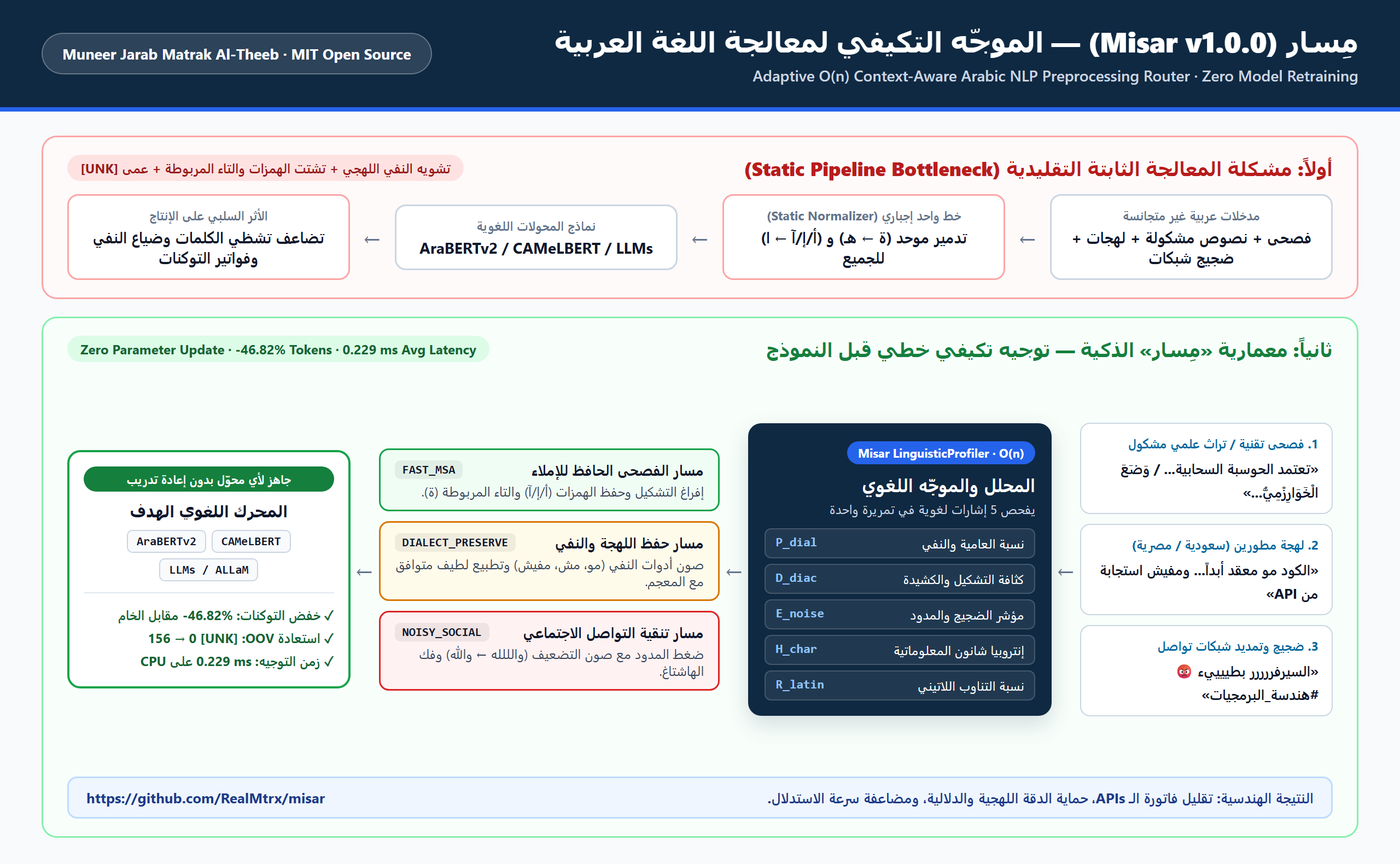
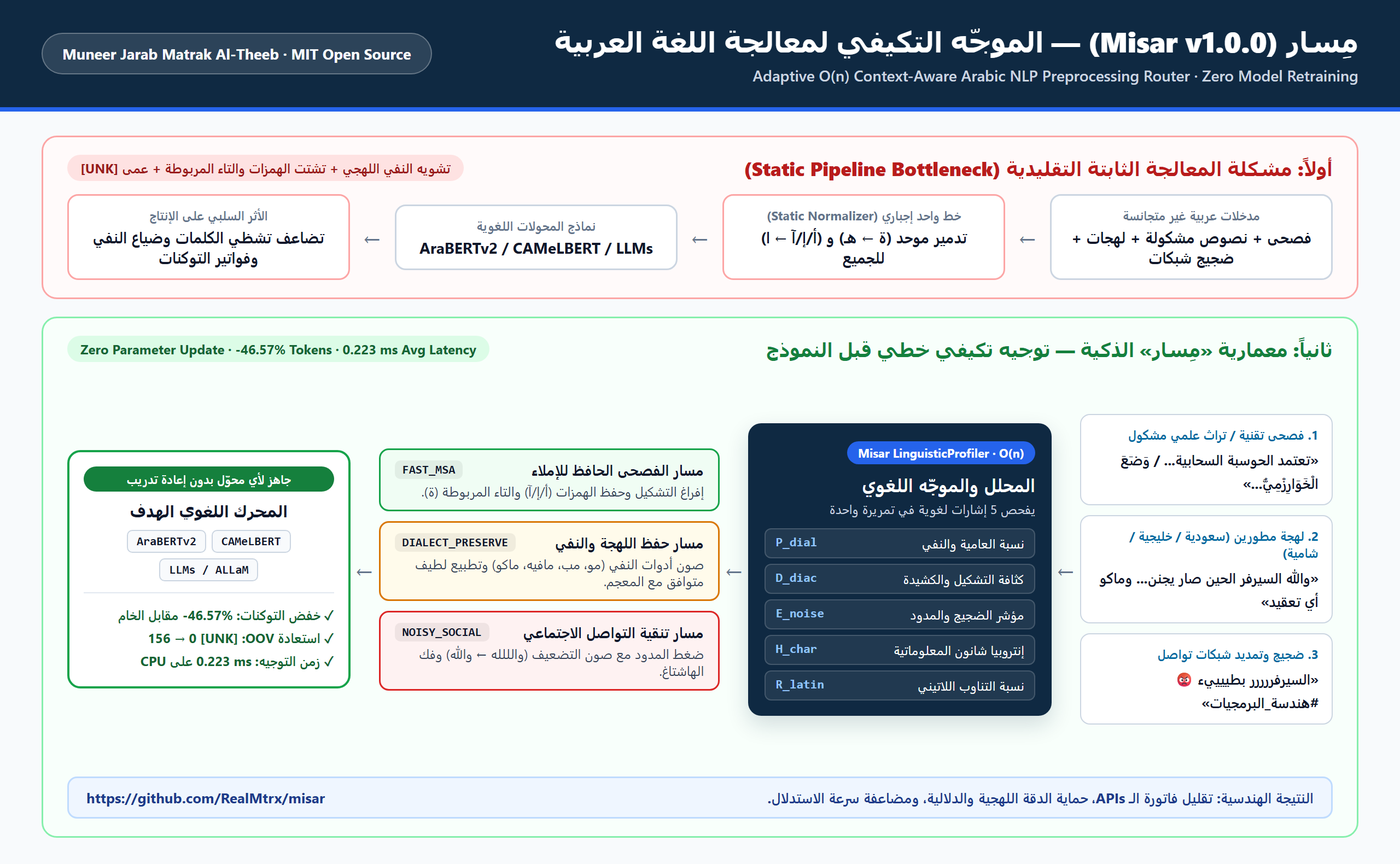
chore: use Saudi, Gulf, and Levantine tech examples instead of Egyptian

Changed region(s): [[0.7812, 0.4962, 0.9375, 0.8373], [0.2812, 0.6513, 0.4062, 0.6823], [0.4375, 0.6513, 0.5, 0.6823]]

diff --git a/src/misar/web/index.html b/src/misar/web/index.html
@@ -620,7 +620,7 @@
       <div class="presets-row" id="presetsRow"></div>
 
       <div class="input-wrap">
-        <textarea id="inputText" placeholder="اكتب هنا أي نص عربي (فصحى، لهجة سعودية/مصرية/شامية، أو تغريدة فيها مدود وإيموجي)..."></textarea>
+        <textarea id="inputText" placeholder="اكتب هنا أي نص عربي (فصحى، لهجة سعودية/خليجية/شامية، أو تغريدة فيها مدود وإيموجي)..."></textarea>
         <div class="actions-row">
           <div class="btn-group">
             <button type="button" class="btn-primary" id="analyzeBtn">تحليل وتوجيه النص</button>
@@ -653,7 +653,7 @@
             <span class="route-status" style="color: var(--dialect-accent);">✓ المسار النشط</span>
           </div>
           <h3>مسار التطبيع اللهجي الحافظ</h3>
-          <p>يصون أدوات النفي العامية («مو، مش، مب، مفيش») ويوحد التهجئة البسيطة مع حماية التضعيف الأصلي.</p>
+          <p>يصون أدوات النفي العامية («مو، مب، مافيه، ماكو») ويوحد التهجئة البسيطة مع حماية التضعيف الأصلي.</p>
         </div>
 
         <div class="route-card" data-route="NOISY_SOCIAL">
@@ -787,9 +787,9 @@
         text: "والله السيرفر الحين صار يجنن واستجابته في API سريعة شويتين بس الكاش يبيله تضبيط"
       },
       {
-        label: "مراجعة برمجية (لهجة مصرية)",
-        category: "لهجة مصرية تقنية (Egyptian Dev + Stack)",
-        text: "الكود مش معقد أبداً بس السيرفر كان محتاج شوية تظبيط في Backend وعلشان كدا أضفنا Cache"
+        label: "لهجة مطورين (خليجية / شامية)",
+        category: "لهجة خليجية وشامية تقنية (Gulf & Levantine Dev)",
+        text: "ياخي المكتبة هاذي كتير مرتبة وماكو أي تعقيد في Backend وشغالة تمام مع Cache"
       },
       {
         label: "فصحى تقنية (حفظ الإملاء)",
@@ -799,7 +799,7 @@
       {
         label: "تغريدة أعطال وضجيج تقني",
         category: "تغريدة تقنية هجينة (Noisy Dev Social + Dialect)",
-        text: "السيرفررررر بطييييء جداااااا ومفيش استجابة في API خالصصصصص 😡😡👎 #هندسة_البرمجيات"
+        text: "السيرفررررر بطييييء مررررة ومافيه استجابة في API أبدددداً 😡😡👎 #هندسة_البرمجيات"
       },
       {
         label: "نص تراثي مشكول (الخوارزمي)",

diff --git a/tests/test_misar.py b/tests/test_misar.py
@@ -46,10 +46,11 @@ class TestLinguisticProfiler(unittest.TestCase):
         self.assertLess(p.code_switching_ratio, 0.7)
 
     def test_protected_negation_flag(self):
-        p = self.profiler.analyze("الكود مو معقد أبداً والأداء مش بطيء")
+        p = self.profiler.analyze("الكود مو معقد أبداً والسيرفر مب بطيء وماكو أخطاء")
         self.assertTrue(p.has_protected_negation)
         self.assertIn("مو", p.detected_markers)
-        self.assertIn("مش", p.detected_markers)
+        self.assertIn("مب", p.detected_markers)
+        self.assertIn("ماكو", p.detected_markers)
 
 
 class TestMisarRoutingAndPipelines(unittest.TestCase):
@@ -95,22 +96,24 @@ class TestMisarRoutingAndPipelines(unittest.TestCase):
         self.assertIn("أبي", res.processed_text)
         self.assertTrue(res.profile.has_protected_negation)
 
-    def test_egyptian_dialect_normalization(self):
-        text = "المكتبة مش معقدة خالص وعلشان كدا عاوزين تحديث في API"
+    def test_gulf_and_levantine_dialect_normalization(self):
+        text = "المكتبة هاذي كتير مرتبة وشويتين زحمة بس ماكو تعقيد في API"
         res = self.router_offline.route(text)
         self.assertEqual(res.route_name, "DIALECT_PRESERVE")
-        self.assertIn("مش", res.processed_text)
-        self.assertIn("عشان", res.processed_text)
-        self.assertIn("كده", res.processed_text)
+        self.assertIn("هذه", res.processed_text)
+        self.assertIn("كثير", res.processed_text)
+        self.assertIn("شوية", res.processed_text)
+        self.assertIn("ماكو", res.processed_text)
 
     def test_hybrid_noisy_social_plus_dialect(self):
-        text = "السيرفررررر بطييييء جداااااا ومفيش استجابة علشان كدا 😡😡 #هندسة_البرمجيات https://example.com"
+        text = "السيرفررررر بطييييء مررررة ومافيه استجابة شويتين 😡😡 #هندسة_البرمجيات https://example.com"
         res = self.router_offline.route(text)
         self.assertEqual(res.route_name, "NOISY_SOCIAL")
         self.assertIn("السيرفر", res.processed_text)
         self.assertIn("بطيء", res.processed_text)
-        self.assertIn("مفيش", res.processed_text)
-        self.assertIn("عشان", res.processed_text)
+        self.assertIn("مرة", res.processed_text)
+        self.assertIn("مافيه", res.processed_text)
+        self.assertIn("شوية", res.processed_text)
         self.assertIn("هندسة البرمجيات", res.processed_text)
         self.assertNotIn("#", res.processed_text)
         self.assertNotIn("https://", res.processed_text)
@@ -204,7 +207,7 @@ class TestRealAraBERTv2WordPiece(unittest.TestCase):
     def test_real_arabert_vocab_reduces_noisy_and_diacritized_tokens(self):
         if not self.available:
             self.skipTest("AraBERTv2 vocab unavailable offline")
-        noisy = "السيرفررررر بطييييء جداااااا ومفيش استجابة في API خالصصصصص 😡😡👎 #هندسة_البرمجيات"
+        noisy = "السيرفررررر بطييييء مررررة ومافيه استجابة في API أبدددداً 😡😡👎 #هندسة_البرمجيات"
         res_noisy = self.router.route(noisy)
         self.assertLess(res_noisy.processed_token_count, res_noisy.raw_token_count)
         self.assertGreater(res_noisy.token_reduction_pct, 40.0)

diff --git a/src/misar/benchmark.py b/src/misar/benchmark.py
@@ -22,10 +22,10 @@ BENCHMARK_CORPUS: List[Dict[str, str]] = [
     {"domain": "Saudi Dev", "text": "والله السيرفر الحين صار يجنن واستجابته في API سريعة شويتين بس الكاش يبيله تضبيط"},
     {"domain": "Saudi Dev", "text": "المكتبة مو معقدة أبداً وما أبي أبدل البنية كلها الحين تكفى شوف التوثيق"},
     {"domain": "Saudi Dev", "text": "التشغيل على السيرفر مرره زبط وسرعة API زادت عشان كذا أنصح فيه"},
-    {"domain": "Egyptian Dev", "text": "الكود مش معقد أبداً بس السيرفر كان محتاج شوية تظبيط في Backend وعلشان كدا أضفنا Cache"},
-    {"domain": "Egyptian Dev", "text": "مفيش أي استجابة من Endpoint دلوقتي وعلشان كدا عاوزين تحديث سريع لحزمة SDK"},
+    {"domain": "Gulf Dev", "text": "ياخي المكتبة هاذي حقت المعالجة زينة بالحيل وابغى أربط Backend مع Cache دحين"},
+    {"domain": "Levantine Dev", "text": "هاد الكود كتير نظيف وماكو مشاكل في Endpoint وبدنا نحدث حزمة SDK بسرعة"},
     {"domain": "Levantine/Maghrebi", "text": "النظام كتير سلس وهيك نشر API شغال مزيان بزاف بدون مشاكل في الإنتاج"},
-    {"domain": "Noisy Tech Social", "text": "السيرفررررر بطييييء جداااااا ومفيش استجابة في API خالصصصصص 😡😡👎 #هندسة_البرمجيات"},
+    {"domain": "Noisy Tech Social", "text": "السيرفررررر بطييييء مررررة ومافيه استجابة في API أبدددداً 😡😡👎 #هندسة_البرمجيات"},
     {"domain": "Noisy Tech Social", "text": "الإصدارررر الجديييييد من النموذج سرييييع وممتاااااز 😍🔥🚀 #ذكاء_اصطناعي https://github.com/RealMtrx/misar"},
     {"domain": "Noisy Tech Social", "text": "والللله الكود مو معقد والأخطاء متكررررة في السيرفر!!!! 👎👎 @devops #تطوير_البرمجيات"},
 ]

diff --git a/src/misar/web/server.py b/src/misar/web/server.py
@@ -26,9 +26,9 @@ STANDARD_SAMPLES: List[Dict[str, str]] = [
         "input": "والله السيرفر الحين صار يجنن واستجابته في API سريعة شويتين بس الكاش يبيله تضبيط",
     },
     {
-        "label": "مراجعة برمجية (لهجة مصرية)",
-        "category": "لهجة مصرية تقنية (Egyptian Dev + Stack)",
-        "input": "الكود مش معقد أبداً بس السيرفر كان محتاج شوية تظبيط في Backend وعلشان كدا أضفنا Cache",
+        "label": "لهجة مطورين (خليجية / شامية)",
+        "category": "لهجة خليجية وشامية تقنية (Gulf & Levantine Dev)",
+        "input": "ياخي المكتبة هاذي كتير مرتبة وماكو أي تعقيد في Backend وشغالة تمام مع Cache",
     },
     {
         "label": "فصحى تقنية (حفظ الإملاء)",
@@ -38,7 +38,7 @@ STANDARD_SAMPLES: List[Dict[str, str]] = [
     {
         "label": "تغريدة أعطال وضجيج تقني",
         "category": "تغريدة تقنية هجينة (Noisy Dev Social + Dialect)",
-        "input": "السيرفررررر بطييييء جداااااا ومفيش استجابة في API خالصصصصص 😡😡👎 #هندسة_البرمجيات",
+        "input": "السيرفررررر بطييييء مررررة ومافيه استجابة في API أبدددداً 😡😡👎 #هندسة_البرمجيات",
     },
     {
         "label": "نص تراثي مشكول (الخوارزمي)",
@@ -242,7 +242,7 @@ def run_server(
                 assert r.status == 200 and "مِسار" in html
 
             req_data = json.dumps(
-                {"text": "السيرفررررر بطييييء جداااااا ومفيش استجابة في API 😡 #هندسة_البرمجيات"},
+                {"text": "السيرفررررر بطييييء مررررة ومافيه استجابة في API 😡 #هندسة_البرمجيات"},
                 ensure_ascii=False,
             ).encode("utf-8")
             req = urllib.request.Request(

diff --git a/README.md b/README.md
@@ -9,8 +9,8 @@
 [![Python 3.9+](https://img.shields.io/badge/python-3.9%2B-1e40af.svg)](https://www.python.org/downloads/)
 [![Dependencies](https://img.shields.io/badge/dependencies-zero%20mandatory-15803d.svg)](#installation)
 [![License: MIT](https://img.shields.io/badge/License-MIT-0f2942.svg)](LICENSE)
-[![Latency](https://img.shields.io/badge/CPU%20latency-0.23%20ms%2Ftext-0369a1.svg)](#empirical-benchmarks)
-[![Token Reduction](https://img.shields.io/badge/tokens%20saved--46.82%25-16a34a.svg)](#empirical-benchmarks)
+[![Latency](https://img.shields.io/badge/CPU%20latency-0.22%20ms%2Ftext-0369a1.svg)](#empirical-benchmarks)
+[![Token Reduction](https://img.shields.io/badge/tokens%20saved--46.57%25-16a34a.svg)](#empirical-benchmarks)
 
 [Architecture](#architecture) • [Benchmarks](#empirical-benchmarks) • [Installation](#installation) • [Quick Start](#quick-start) • [CLI & Workbench](#cli--web-workbench) • [Citation](#citation) • [النسخة العربية](#-نظرة-عامة-بالعربية)
 
@@ -27,7 +27,7 @@
 Modern Arabic NLP deployments face a structural bottleneck: forcing heterogeneous Arabic text (**Modern Standard Arabic**, **classical diacritized prose**, **Gulf/Egyptian/Levantine/Maghrebi dialects**, and **noisy social media**) through a single static preprocessing pipeline actively degrades both accuracy and inference economics:
 
 1. **Legacy Normalization Damages Modern Transformers:** Classical regex pipelines blindly collapse `ة → ه` and `أ/إ/آ → ا`. However, modern Transformer vocabularies such as **AraBERTv2** (`64k` WordPiece) and **CAMeLBERT** explicitly preserve Hamzas and Taa Marbuta—meaning legacy normalization shatters known whole words (e.g., `الحوسبة` as `1` token splits into `الحو` + `##سبه` as `2` tokens).
-2. **Dialectal Sentiment & Negation Erasure:** Over-aggressive cleaning distorts critical colloquial negation and sentiment markers (`مو`, `مش`, `مفيش`, `ماكو`), reversing downstream classification polarity.
+2. **Dialectal Sentiment & Negation Erasure:** Over-aggressive cleaning distorts critical colloquial negation and sentiment markers (`مو`, `مب`, `مافيه`, `ماكو`), reversing downstream classification polarity.
 3. **Diacritic, Tatweel & Elongation Token Explosion:** Unstripped harakat (`تشكيل`), kashida (`ـ`), and character stretches (`بطييييء`, `السيرفررررر`) trigger OOV `[UNK]` blindness or inflate subword token counts—multiplying Transformer $O(L^2)$ self-attention cost and API billing.
 
 **Misar (`مِسار`)** solves all three challenges **without retraining any model (`Zero Parameter Update`)** by acting as an ultra-lightweight, zero-dependency, linear-time $O(n)$ routing gateway directly in front of your Transformer or LLM pipeline.
@@ -44,7 +44,7 @@ flowchart LR
     B -->|"High Noise / Tatweel / Stretches ≥ 3"| C["NOISY_SOCIAL (+ Hybrid Dialect)<br/>Gemination-Safe Collapse + Tag Unpacking"]
     B -->|"Dialect Markers / Protected Negations"| D["DIALECT_PRESERVE<br/>Negation Protection + Vocab-Aligned Cleanup"]
     B -->|"Clean MSA / Classical Diacritized"| E["FAST_MSA<br/>Strip Harakat · Preserve أ/إ/آ, ة, ى"]
-    C --> F["AraBERTv2 / CAMeLBERT / ALLaM / LLMs<br/>(-46.82% Tokens · 0 [UNK])"]
+    C --> F["AraBERTv2 / CAMeLBERT / ALLaM / LLMs<br/>(-46.57% Tokens · 0 [UNK])"]
     D --> F
     E --> F
 ```
@@ -59,11 +59,11 @@ Measured reproducibly via `python benchmarks/run_benchmark.py` against the authe
 | :--- | :---: | :---: | :---: | :---: | :---: |
 | **MSA Engineering & Code-Switch** | 3 | 57 | 79 *(+38.6% fragmentation)* | **57** | Preserves `100%` orthography (`-27.85%` vs Legacy) |
 | **Classical Diacritized (Heritage)** | 3 | 186 *(147 OOV `[UNK]`)* | 48 | **39** | **`-79.03%`** tokens & **`100%`** word recovery (`0 [UNK]`) |
-| **Gulf / Egyptian / Levantine / Maghrebi Dev** | 6 | 125 | 131 | **119** | **`-4.80%`** tokens (`-9.16%` vs Legacy) + negations intact |
-| **Noisy Tech Social & Code-Switching** | 3 | 104 | 80 | **36** | **`-65.38%`** tokens + gemination preserved |
-| **Full Corpus Summary** | **15** | **472** | **338** | **251** | **`-46.82%` vs Raw · `-25.74%` vs Legacy · `0.229 ms/text`** |
+| **Saudi / Gulf / Levantine / Maghrebi Dev** | 6 | 121 | 131 | **117** | **`-3.31%`** tokens (`-10.69%` vs Legacy) + negations intact |
+| **Noisy Tech Social & Code-Switching** | 3 | 102 | 80 | **36** | **`-64.71%`** tokens + gemination preserved |
+| **Full Corpus Summary** | **15** | **466** | **338** | **249** | **`-46.57%` vs Raw · `-26.33%` vs Legacy · `0.223 ms/text`** |
 
-> **Key Scientific Proof:** On Standard Arabic technical prose (`MSA Tech / Engineering`), blind legacy normalization inflated token count from **57 → 79** due to `ة → ه` subword splitting, while Misar maintained **57** intact vocabulary tokens (`TFR ≈ 1.0`). Across all 15 multi-domain inputs, Misar saved **46.82%** of total tokens vs. raw text and **25.74%** vs. legacy normalization (recovering **156 → 0 `[UNK]`** tokens) with **0.229 ms** mean latency on pure CPU.
+> **Key Scientific Proof:** On Standard Arabic technical prose (`MSA Tech / Engineering`), blind legacy normalization inflated token count from **57 → 79** due to `ة → ه` subword splitting, while Misar maintained **57** intact vocabulary tokens (`TFR ≈ 1.0`). Across all 15 multi-domain inputs, Misar saved **46.57%** of total tokens vs. raw text and **26.33%** vs. legacy normalization (recovering **156 → 0 `[UNK]`** tokens) with **0.223 ms** mean latency on pure CPU.
 
 ---
 
@@ -99,12 +99,12 @@ from misar import MisarRouter
 
 router = MisarRouter()  # Uses real AraBERTv2 64k WordPiece vocabulary
 
-result = router.route("السيرفررررر بطييييء جداااااا ومفيش استجابة في API خالصصصصص 😡😡👎 #هندسة_البرمجيات")
+result = router.route("السيرفررررر بطييييء مررررة ومافيه استجابة في API أبدددداً 😡😡👎 #هندسة_البرمجيات")
 
 print("Route:     ", result.route_name)          # NOISY_SOCIAL
-print("Processed: ", result.processed_text)      # السيرفر بطيء جدا ومفيش استجابة في API خالص هندسة البرمجيات
-print("Tokens:    ", result.raw_token_count, "->", result.processed_token_count)  # 30 -> 14
-print("Reduction: ", f"-{result.token_reduction_pct:.1f}%")                       # -53.3%
+print("Processed: ", result.processed_text)      # السيرفر بطيء مرة ومافيه استجابة في API أبدا هندسة البرمجيات
+print("Tokens:    ", result.raw_token_count, "->", result.processed_token_count)  # 28 -> 14
+print("Reduction: ", f"-{result.token_reduction_pct:.1f}%")                       # -50.0%
 print("Latency:   ", f"{result.latency_ms:.3f} ms")
 ```
 
@@ -114,8 +114,8 @@ print("Latency:   ", f"{result.latency_ms:.3f} ms")
 from misar import MisarRouter, preprocess
 
 # One-line module helper
-clean = preprocess("الســــلام علــــيكم ومفيش مشكلة #تطوير_البرمجيات")
-# -> "السلام عليكم ومفيش مشكلة تطوير البرمجيات"
+clean = preprocess("الســــلام علــــيكم ومافيه مشكلة #تطوير_البرمجيات")
+# -> "السلام عليكم ومافيه مشكلة تطوير البرمجيات"
 
 # Fast batch routing for production ETL pipelines
 router = MisarRouter()
@@ -229,10 +229,10 @@ If you use **Misar** in academic research, benchmarks, or commercial NLP pipelin
 
 ## 📖 نظرة عامة بالعربية
 
-**مِسار (`Misar`)** هي مكتبة وموجّه بايثون مفتوح المصدر وخفيف الوزن (بلا أي تبعيات خارجية إجبارية) صُمِّم ليعمل كطبقة بوابة ذكية في زمن خطي $O(n)$ (**~0.23 مللي ثانية** للنص) قبل نماذج المحولات اللغوية العربية مثل `AraBERTv2` و `CAMeLBERT` والنماذج التوليدية (`ALLaM` و `LLMs`) **دون الحاجة إلى إعادة تدريب النموذج (`Zero Parameter Update`)**.
+**مِسار (`Misar`)** هي مكتبة وموجّه بايثون مفتوح المصدر وخفيف الوزن (بلا أي تبعيات خارجية إجبارية) صُمِّم ليعمل كطبقة بوابة ذكية في زمن خطي $O(n)$ (**~0.22 مللي ثانية** للنص) قبل نماذج المحولات اللغوية العربية مثل `AraBERTv2` و `CAMeLBERT` والنماذج التوليدية (`ALLaM` و `LLMs`) **دون الحاجة إلى إعادة تدريب النموذج (`Zero Parameter Update`)**.
 
-* **توجيه ثلاثي المسارات:** يفحص النص في تمريرة واحدة ويختار بين مسار الفصحى الحافظ للإملاء (`FAST_MSA`)، أو مسار حفظ اللهجة وأدوات النفي (`DIALECT_PRESERVE`) لحماية كلمات مثل `مو، مش، مفيش`، أو مسار تنقية ضجيج شبكات التواصل (`NOISY_SOCIAL`) الذي يضغط المدود والتطويل مع الحفاظ على الكلمات المشددة (`والللله ← والله`).
-* **توفير التوكنات وتكاليف الـ APIs:** أظهرت التجارب المرجعية الموثقة على معجم `AraBERTv2` خفض إجمالي التوكنات بنسبة **46.82%** مقارنة بالنص الخام و**25.74%** مقارنة بمناهج التطبيع القديمة، مع استعادة **100%** من الكلمات المتأثرة بالتشكيل والكشيدة (`156 → 0 [UNK]`).
+* **توجيه ثلاثي المسارات:** يفحص النص في تمريرة واحدة ويختار بين مسار الفصحى الحافظ للإملاء (`FAST_MSA`)، أو مسار حفظ اللهجة وأدوات النفي (`DIALECT_PRESERVE`) لحماية كلمات مثل `مو، مب، مافيه، ماكو`، أو مسار تنقية ضجيج شبكات التواصل (`NOISY_SOCIAL`) الذي يضغط المدود والتطويل مع الحفاظ على الكلمات المشددة (`والللله ← والله`).
+* **توفير التوكنات وتكاليف الـ APIs:** أظهرت التجارب المرجعية الموثقة على معجم `AraBERTv2` خفض إجمالي التوكنات بنسبة **46.57%** مقارنة بالنص الخام و**26.33%** مقارنة بمناهج التطبيع القديمة، مع استعادة **100%** من الكلمات المتأثرة بالتشكيل والكشيدة (`156 → 0 [UNK]`).
 
 ---
 

diff --git a/CHANGELOG.md b/CHANGELOG.md
@@ -10,4 +10,4 @@ All notable releases and engineering updates to **Misar (مِسار)** are docum
 - **Real Vocabulary WordPiece Tokenizer (`WordPieceTokenizer`):** Pure-Python tokenizer compatible with `aubmindlab/bert-base-arabertv02` and `CAMeL-Lab/bert-base-arabic-camelbert-mix`, with diacritic/tatweel segmentation and an offline heuristic fallback (`HeuristicSubwordTokenizer`).
 - **Hugging Face Drop-in Integration (`wrap_hf_pipeline`):** One-line preprocessing wrapper for any Transformers pipeline.
 - **CLI & Hardened Web Workbench (`misar` + REST API):** `misar demo`, `misar route`, `misar bench`, and `misar serve` with a responsive Arabic RTL interactive workbench, payload bounds (`1 MiB`), and XSS-safe DOM rendering.
-- **Automated Verification Suite:** 23 unit, security, server, and real-vocabulary tests plus a reproducible 15-sample tech & Arabic benchmark (`-46.82%` tokens vs Raw, `-25.74%` vs Legacy Static, `156 -> 0` `[UNK]` recovery).
+- **Automated Verification Suite:** 23 unit, security, server, and real-vocabulary tests plus a reproducible 15-sample tech & Arabic benchmark (`-46.57%` tokens vs Raw, `-26.33%` vs Legacy Static, `156 -> 0` `[UNK]` recovery).
